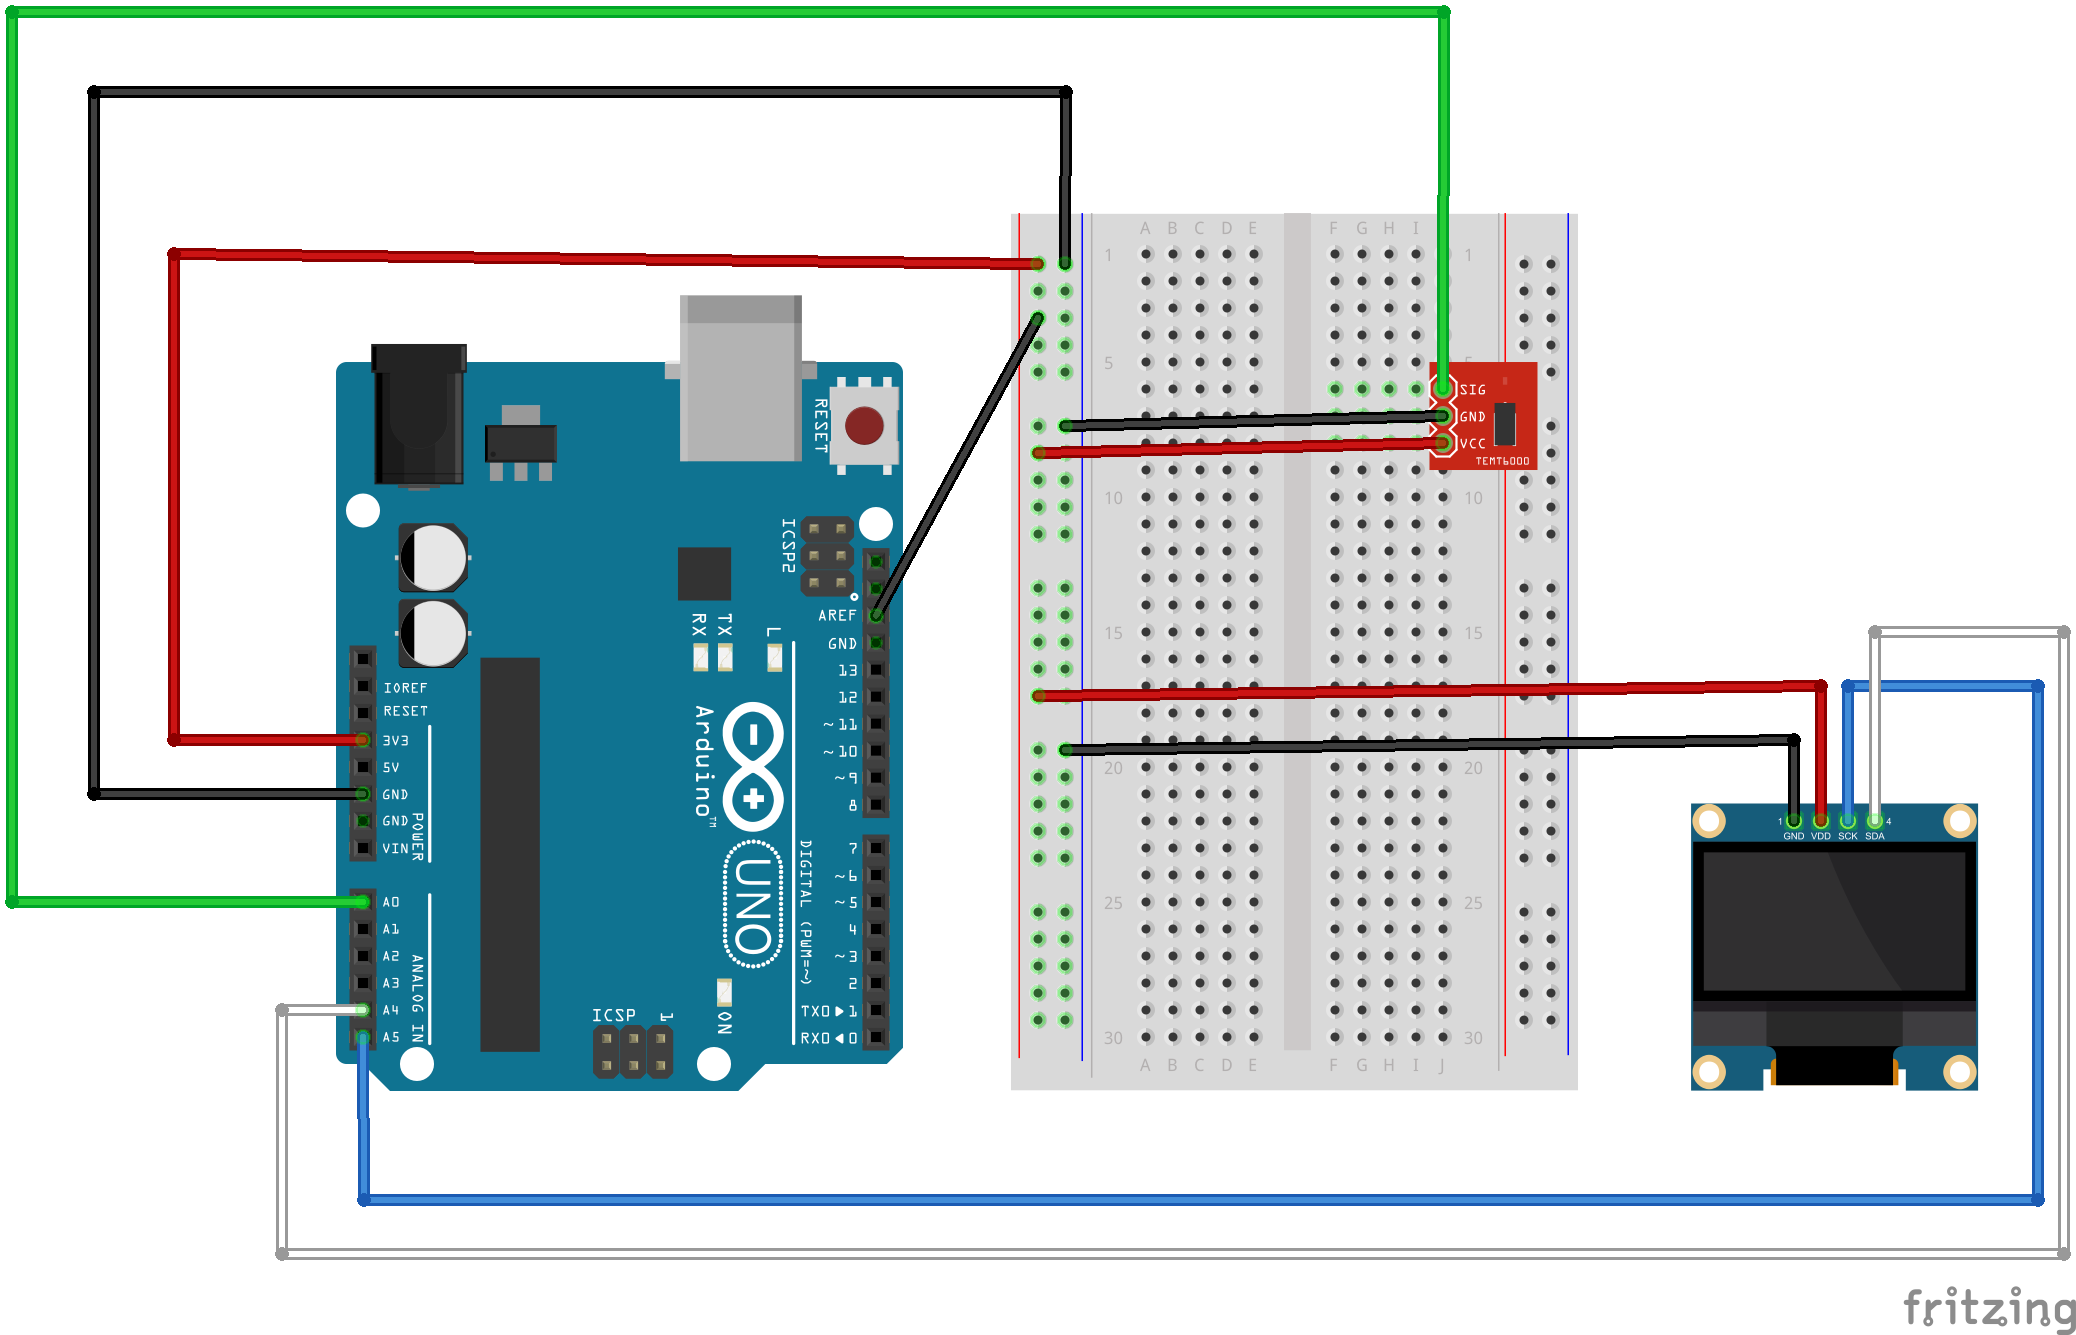
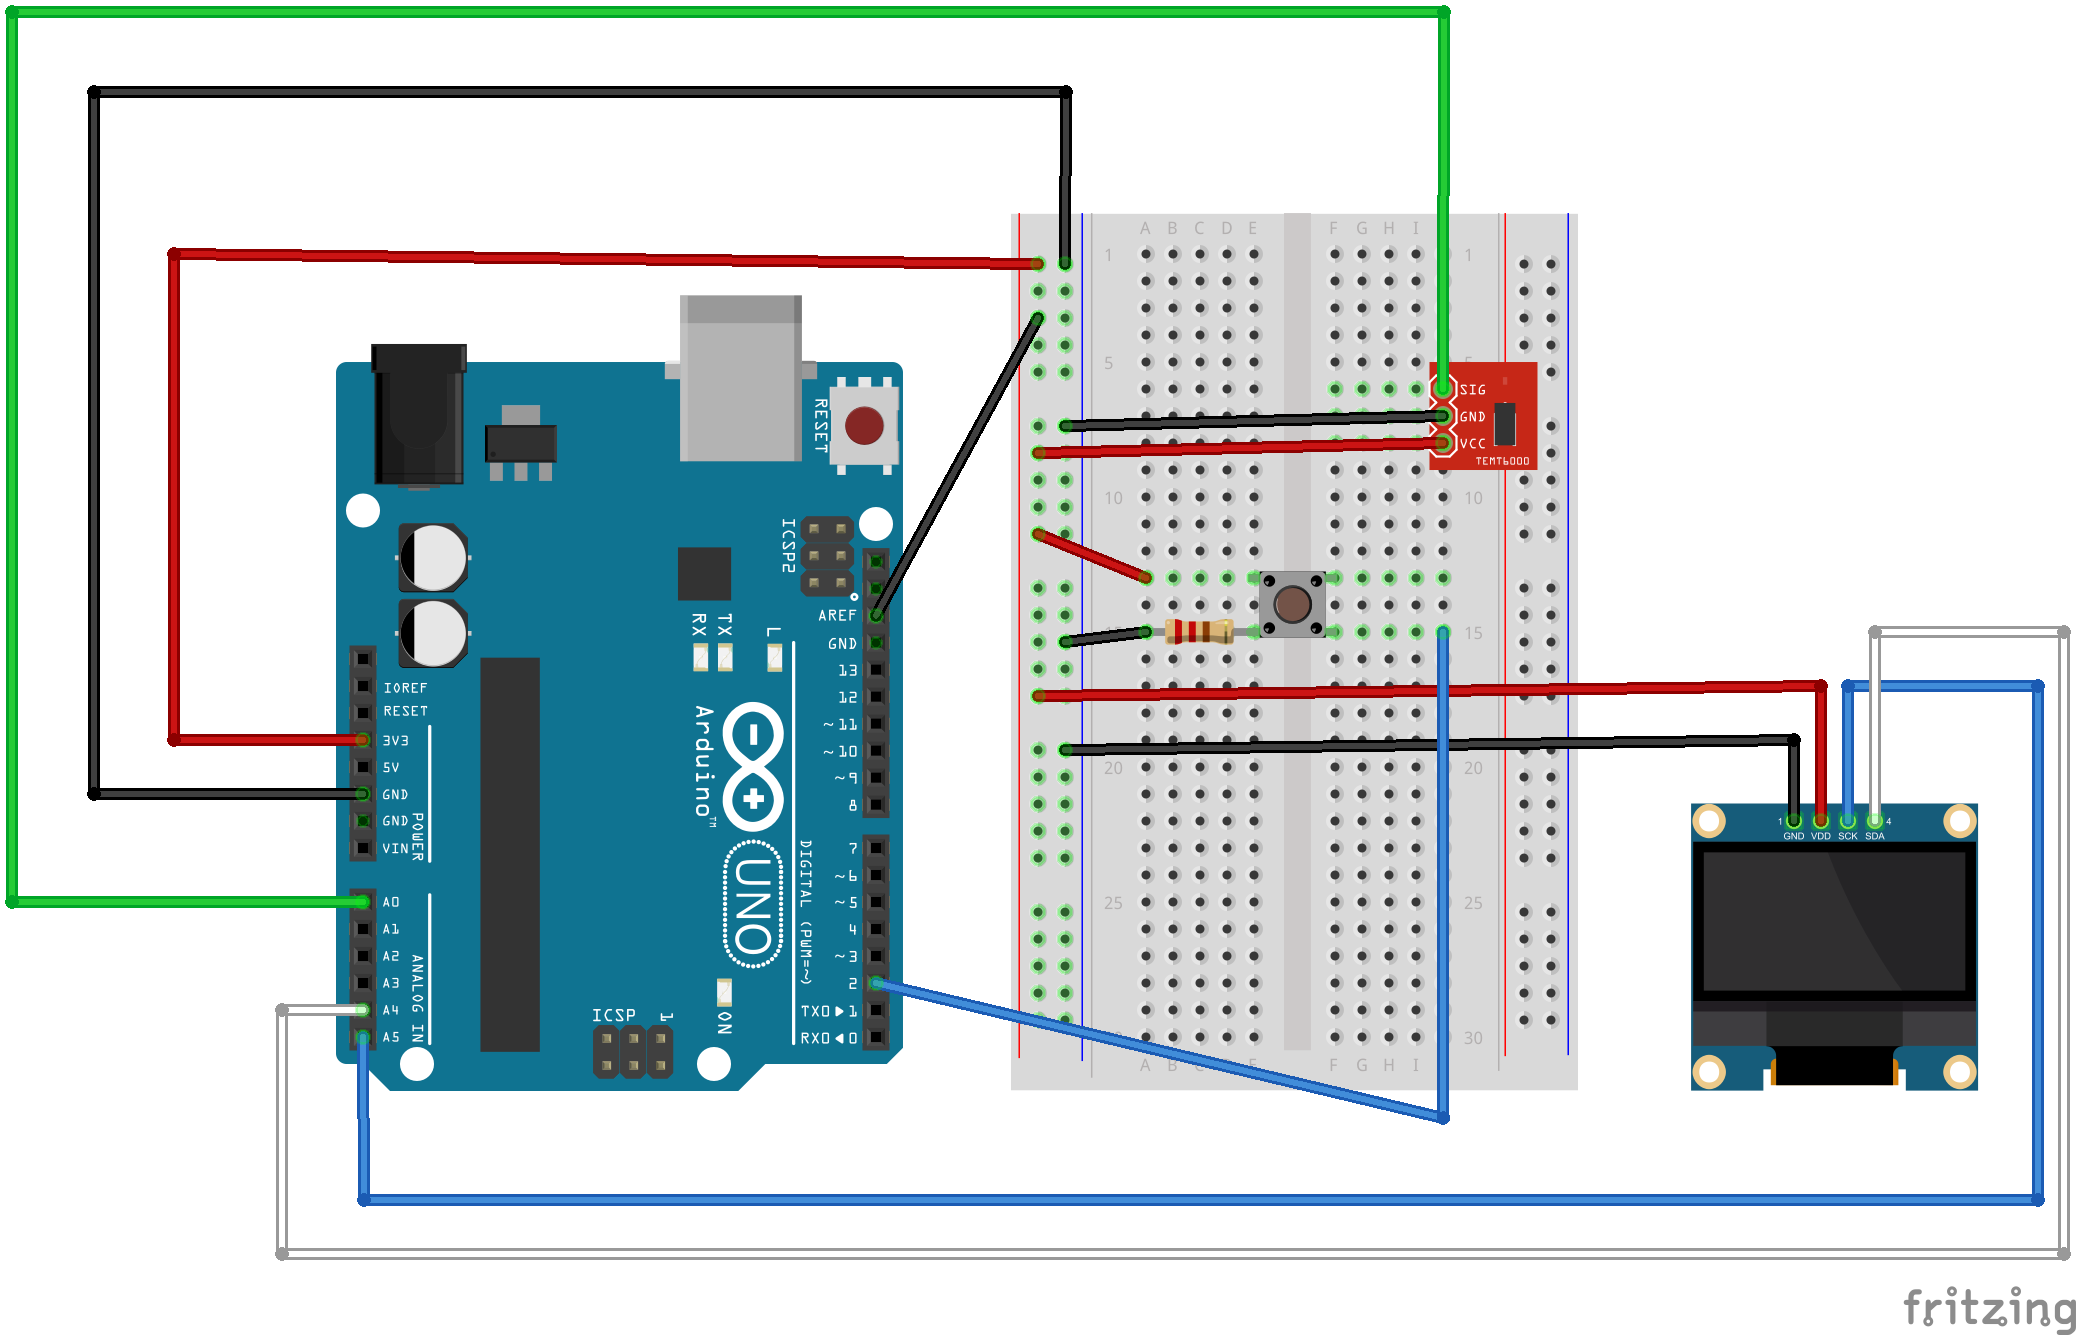
DAQ-1000 Folder reorganization and putting in groundwork for pushbuttons.

Changed region(s): [[0.4933, 0.43, 0.7091, 0.8599], [0.4316, 0.7371, 0.5857, 0.7985], [0.4933, 0.3993, 0.5549, 0.43]]

diff --git a/DAQ/include/ISR.h b/DAQ/include/ISR.h
@@ -11,17 +11,19 @@
 #define ISR_H
 
 extern volatile uint8_t data_byte;
-extern volatile bool flag;
+extern volatile bool data_flag;
+extern volatile bool button1_flag;
 
 /////////////////////////////////////////
-///
+/// Interrupt just to trigger sampling
+/// does nothing.
 ISR(TIMER1_COMPB_vect)
 {
   // Do nothing.
 }
 
 /////////////////////////////////////////
-///
+/// Grab sample from ADCH
 ISR(ADC_vect)
 {
   // Read 8-bit conversion result from ADCH.
@@ -29,7 +31,14 @@ ISR(ADC_vect)
   uint8_t byte1 = ADCH;
 
   data_byte = byte1;
-  flag = true;
+  data_flag = true;
 }
 
+/////////////////////////////////////////
+/// Interrupt when pin 2 is on rising
+/// edge.
+ISR(INT0_vect)
+{
+  // code here.
+}
 #endif ISR_H

diff --git a/DAQ/include/pushbuttons.h b/DAQ/include/pushbuttons.h
@@ -1,0 +1,18 @@
+///////////////////////////////////////////////////////////////////////////////
+//`File: oledDisplay.h
+// Desc: File that uses contains the definitions for pushbutton related code.
+//
+// Author: Irfan Hossain
+///////////////////////////////////////////////////////////////////////////////
+#ifndef PUSHBUTTONS_H
+#define PUSHBUTTONS_H
+
+/////////////////////////////////////////
+//
+void debounce(int buttonState);
+
+/////////////////////////////////////////
+//
+
+
+#endif PUSHBUTTONS_H

diff --git a/DAQ/src/oledDisplay.cpp b/DAQ/src/oledDisplay.cpp
@@ -10,7 +10,7 @@
 #include <Arduino.h>
 #include <Adafruit_GFX.h>
 #include <Adafruit_SSD1306.h>
-#include "include/oledDisplay.h"
+#include "../include/oledDisplay.h"
 
 #define OLED_RESET 4
 #define OLED_WIDTH 127
@@ -20,6 +20,7 @@
 Adafruit_SSD1306 display(OLED_RESET);
 
 extern uint8_t data_byte;
+
 /////////////////////////////////////////
 /// Reset OLED to clear buffer and set the
 /// cursor for the print function.

diff --git a/DAQ/src/pushbuttons.cpp b/DAQ/src/pushbuttons.cpp
@@ -1,0 +1,13 @@
+///////////////////////////////////////////////////////////////////////////////
+//`File: oledDisplay.h
+// Desc: File that uses contains the implementaation for pushbutton related code.
+//
+// Author: Irfan Hossain
+///////////////////////////////////////////////////////////////////////////////
+#include <Arduino.h>
+#include "../include/pushbuttons.h"
+
+void printTest()
+{
+  Serial.println("FUCK");
+}

diff --git a/DAQ/src/configReg.cpp b/DAQ/src/configReg.cpp
@@ -6,7 +6,7 @@
 // Author: Irfan Hossain
 ///////////////////////////////////////////////////////////////////////////////
 #include <Arduino.h>
-#include "include/configReg.h"
+#include "../include/configReg.h"
 
 
 #define PRESCALER_INTERRUPT 19

diff --git a/DAQ/include/oledDisplay.h b/DAQ/include/oledDisplay.h
@@ -25,7 +25,7 @@ void setupOLED(int x, int y, int textSize, int duration);
 void displayData(uint8_t data, int x, int y);
 
 /////////////////////////////////////////
-// 
+//
 void plotData();
 
 #endif OLEDDISPLAY_H
